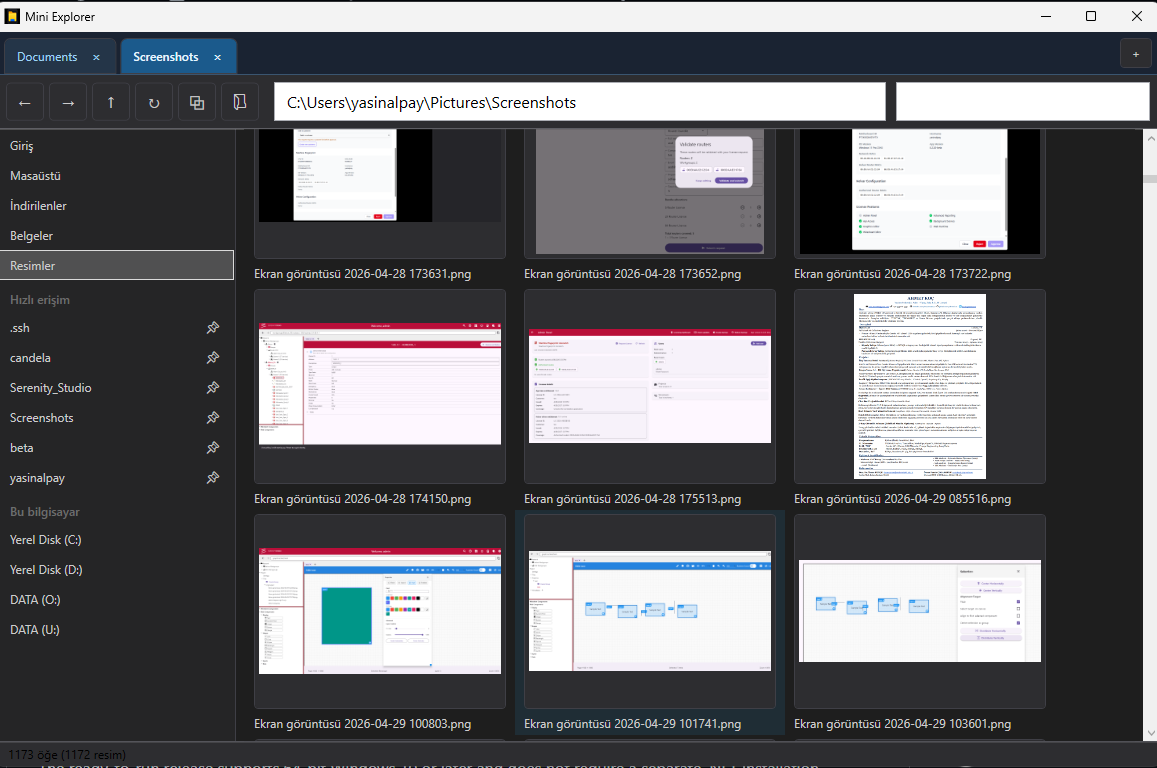
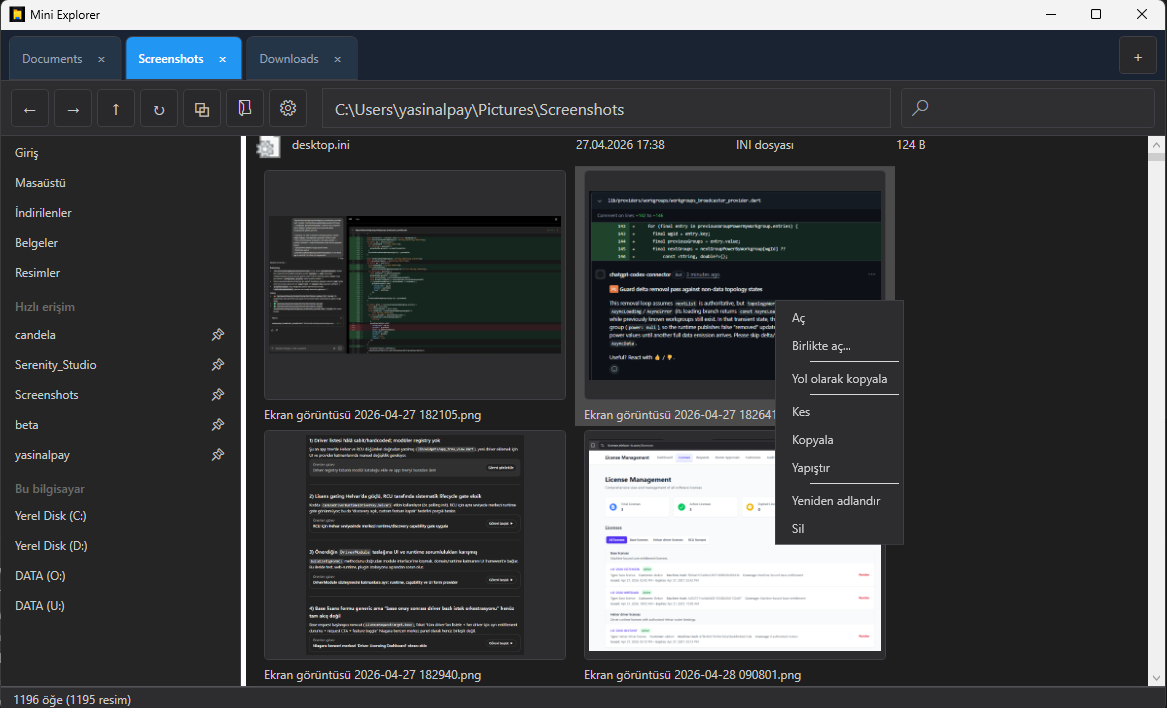
Update README features and screenshots for v0.2.2.

diff --git a/README.md b/README.md
@@ -27,6 +27,10 @@ code-signed, Windows SmartScreen may display a warning when it is first run.
 
 ![MiniExplorer context menu](MiniExplorer/Assets/screenshot-context-menu.png)
 
+### Settings
+
+![MiniExplorer settings](MiniExplorer/Assets/screenshot-settings.png)
+
 ## Features
 
 - Browse folders in multiple tabs with back, forward, up, and refresh navigation
@@ -35,9 +39,12 @@ code-signed, Windows SmartScreen may display a warning when it is first run.
 - Filter the contents of the current folder
 - Preview pictures in a thumbnail layout
 - Copy, cut, paste, rename, and move items to the Recycle Bin
+- Drag files and folders to Explorer, the desktop, and other Windows apps (multi-selection supported)
 - Open files with their associated applications
 - Open folders in Windows Explorer or Visual Studio Code
 - Open supported files in Notepad++
+- Customize the interface in Settings: theme, header style, density, icon size, and toolbar buttons
+- Switch between Turkish and English
 
 ## Requirements
 